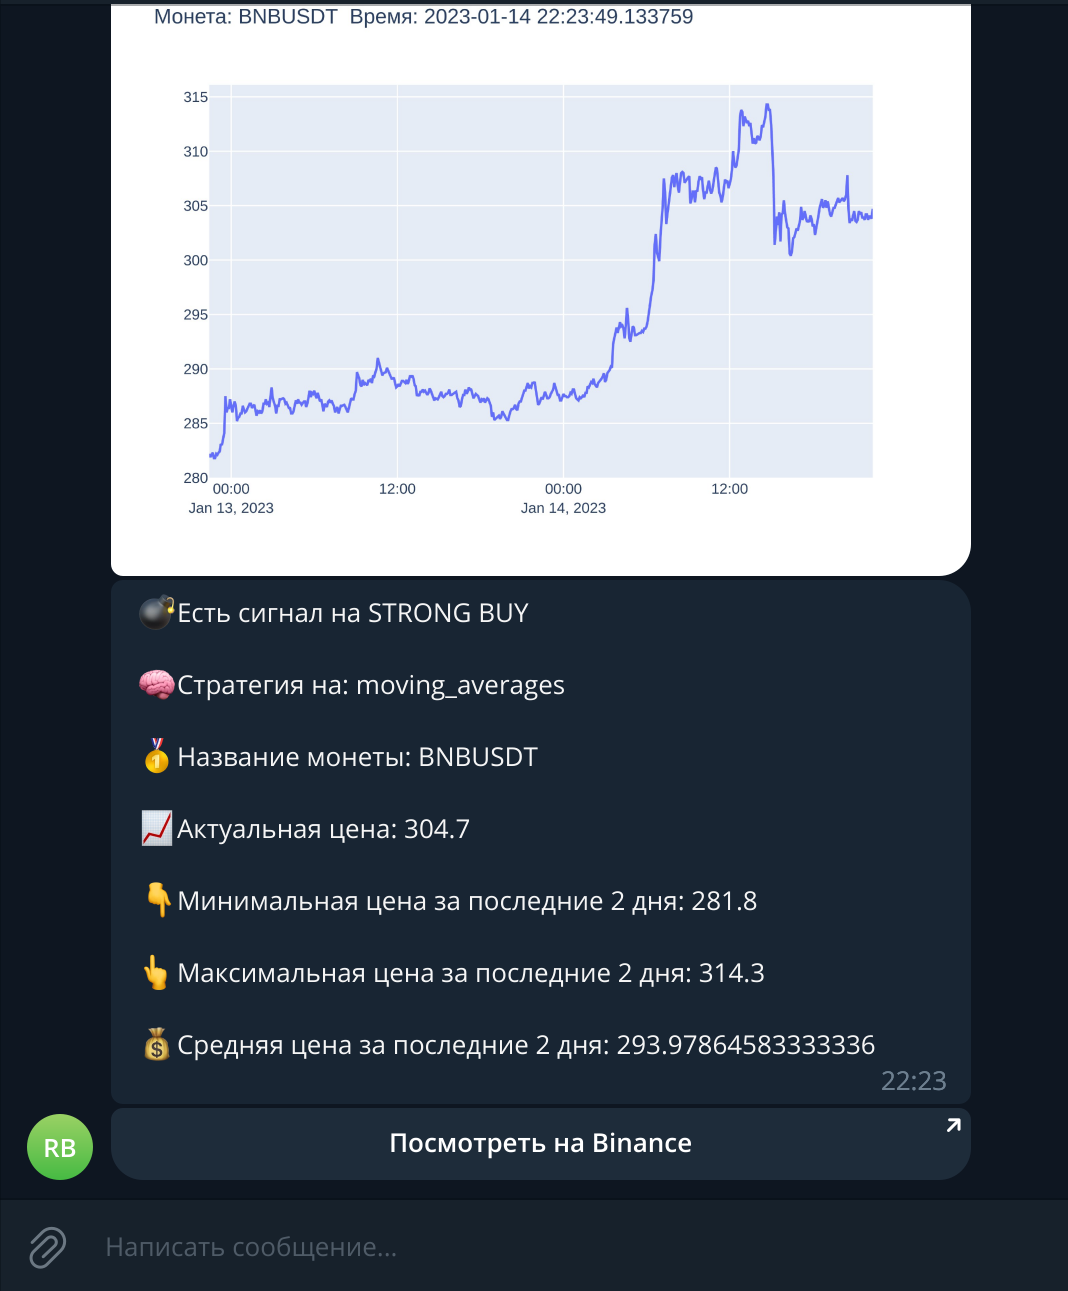
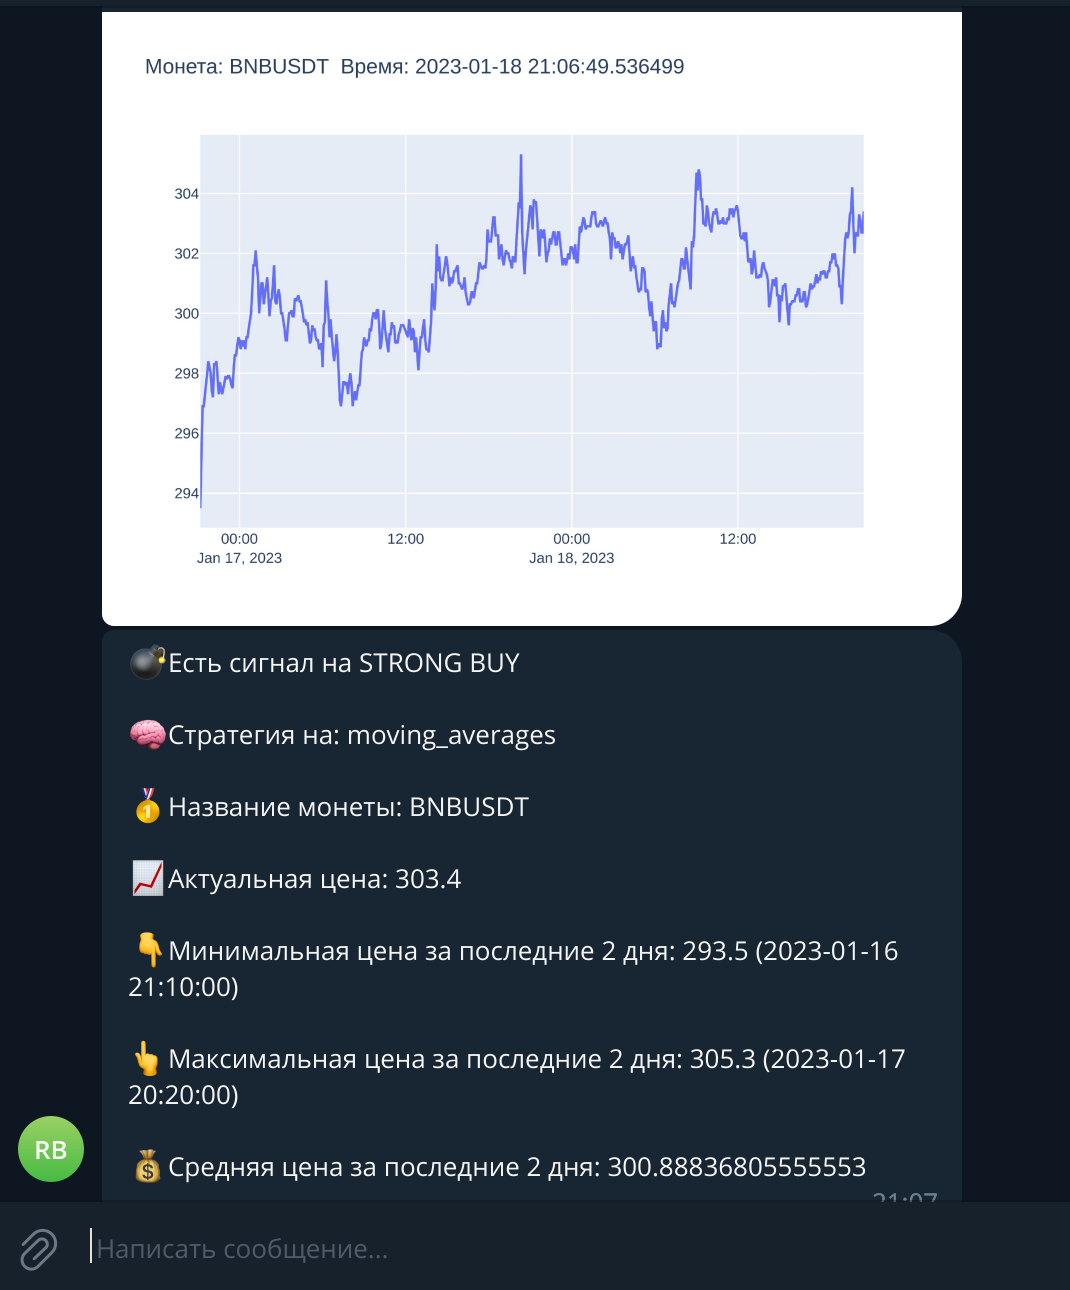
Update project

diff --git a/main.py b/main.py
@@ -20,7 +20,7 @@ while True:
     bot = telebot.TeleBot(TOKEN, parse_mode=None)
 
     # Указываем группу в которую будет присылать всю информацию
-    name_channel = '@HereWriteTelegramGroup'
+    name_channel = '@trading_statistics'
     
     
     def moving_averages():

diff --git a/config/TOKEN_telegram.py b/config/TOKEN_telegram.py
@@ -1,1 +1,1 @@
-TOKEN = '5987290522:fgdddddddddddddddddddddddddd'
+TOKEN = '5987290522:AAFpRLkHYPFZPEZ728xM8ZcGLnmJSbgcUME'

diff --git a/README.md b/README.md
@@ -7,8 +7,8 @@
 >> * Загрузка исторических данных по выбранной монете за последние 2 дня до момента получения сигнала
 >> * Построение графика с использованием plotly и сохранением в папку image/
 >> * Вычесляем самую последнию цену закрытия на момент получения данных
->> * Путем математического расчета вычислить минимальную цену за последние 2 дня
->> * Путем математического расчета вычислить максимальную цену за последние 2 дня
+>> * Путем математического расчета вычислить минимальную цену за последние 2 дня и время когда это произошло
+>> * Путем математического расчета вычислить максимальную цену за последние 2 дня и время когда это произошло
 >> * Путем математического расчета вычислить среднию цену за последние 2 дня
 >> * И используя библиотеку pyTelegramBotAPI создаем бота который в нужную группу Telegram отправляет всю выше перечисленную информацию
 >> * Отправляет ссылку на биржу Binance по выбранной монете
